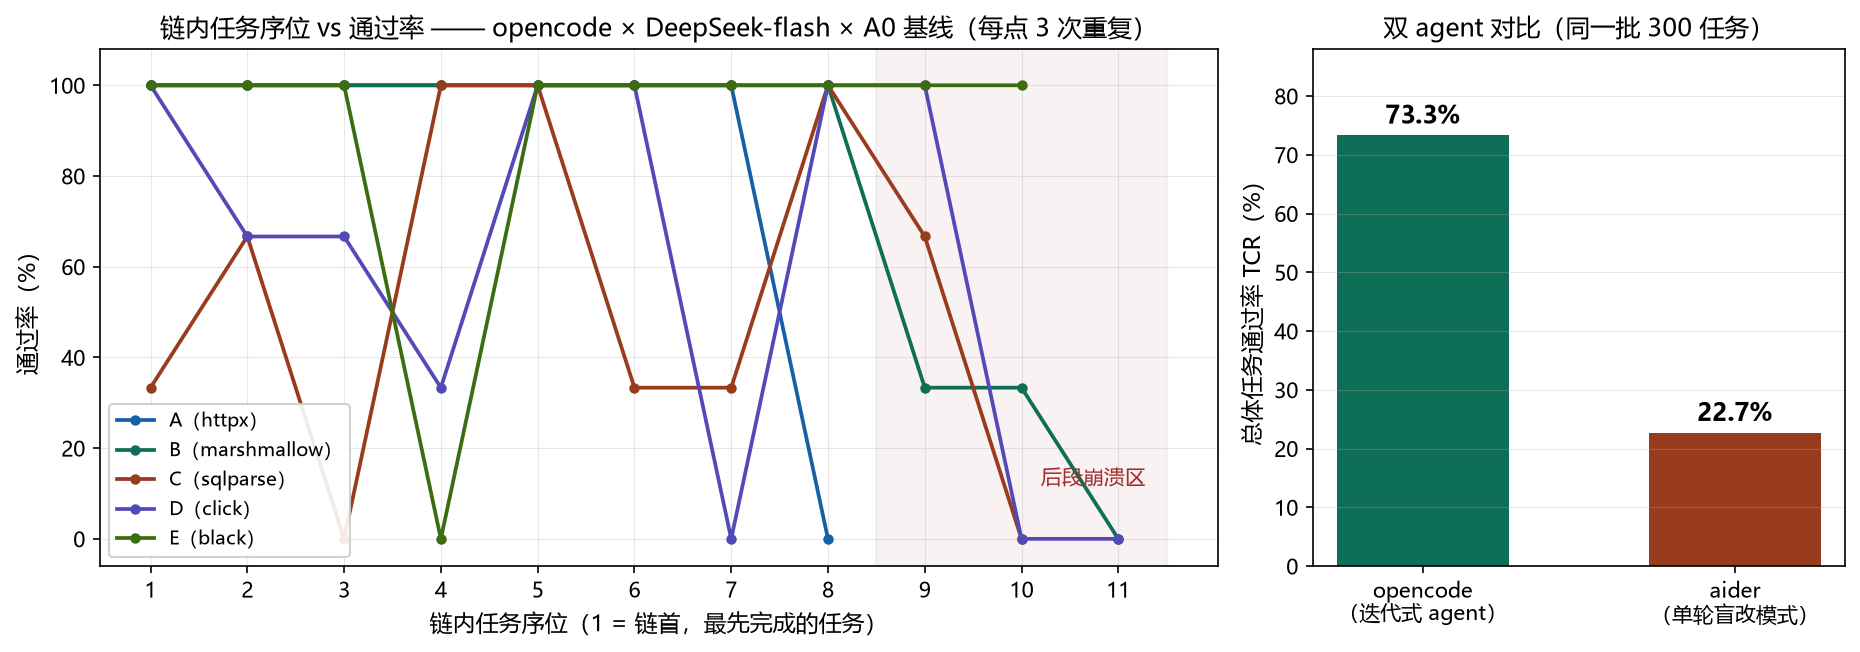
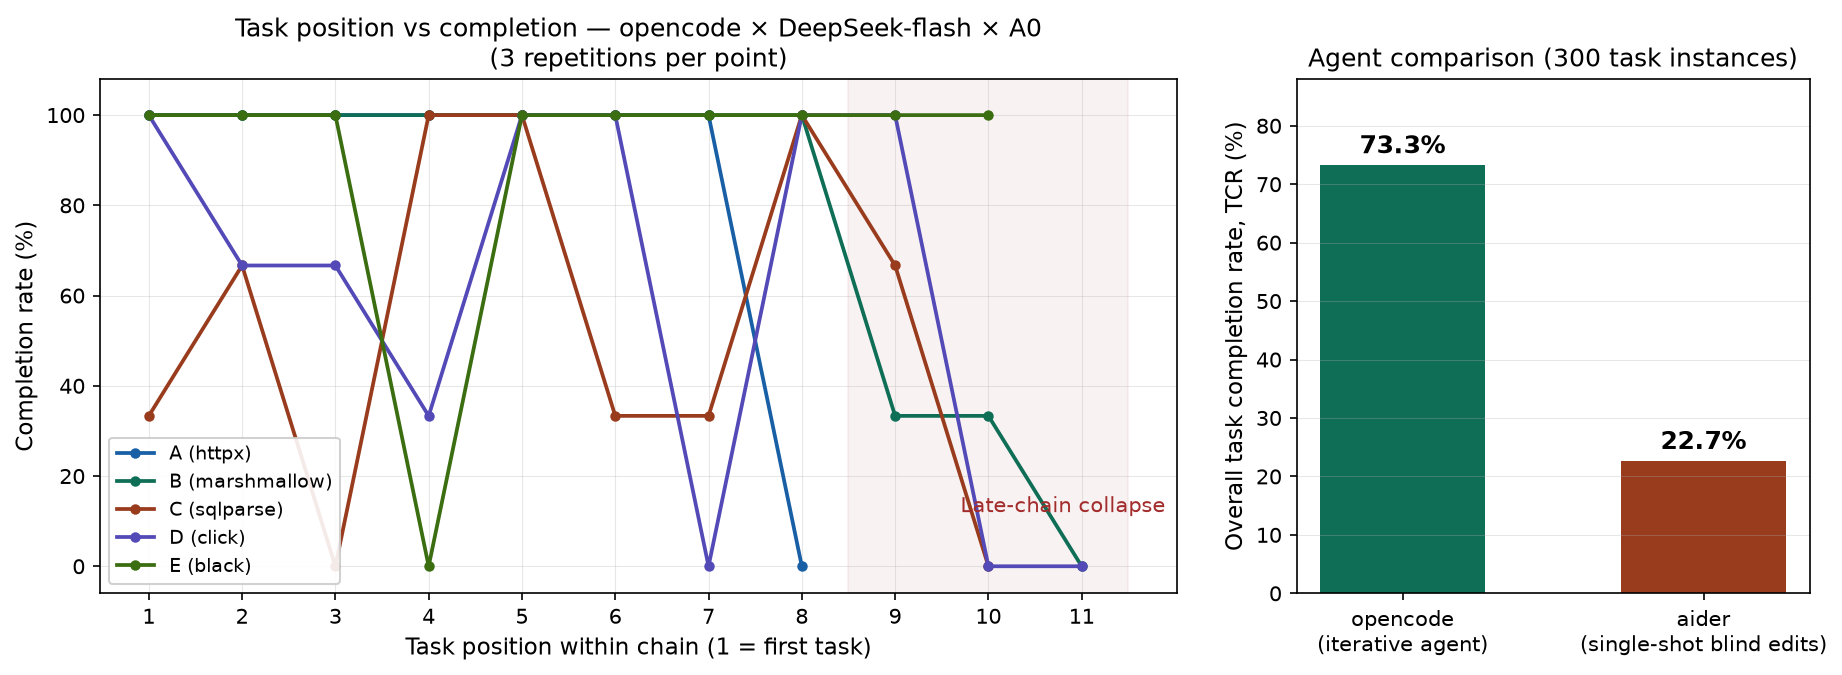
Sync English-labeled figures and figure scripts with paper revision

diff --git a/harness/make_figures_rq3.py b/harness/make_figures_rq3.py
@@ -1,17 +1,12 @@
 # -*- coding: utf-8 -*-
-"""RQ3 消融成果图：A1 vs A-full 头对头 + 变异触达漏斗 + 变异预算敏感度。
+"""Generate the English RQ3 ablation figure from verified aggregate values."""
+import pathlib
 
-数据来源（全部为实测，溯源见 paper/DRAFT_EN.md 附录 A）：
-- 头对头：A-full 重跑批(_batch_s3b.log) vs 阶段2 A1 批(_batch_a1.log)，各 6 runs/63 任务
-- 漏斗：A-full 重跑批 63 任务的 evidence.json 全量扫描
-- 预算敏感度：C4 离线冒烟（sqlparse，_smoke_mut_full.log + diag 记录）
-"""
 import matplotlib
 matplotlib.use("Agg")
 import matplotlib.pyplot as plt
-from matplotlib.patches import FancyArrowPatch
 
-plt.rcParams["font.sans-serif"] = ["Microsoft YaHei", "SimHei"]
+plt.rcParams["font.sans-serif"] = ["DejaVu Sans"]
 plt.rcParams["axes.unicode_minus"] = False
 
 GREEN = "#0F6E56"
@@ -20,85 +15,86 @@ RUST = "#993C1D"
 GRAY = "#7A7A7A"
 AMBER = "#C07A00"
 
-fig, axes = plt.subplots(1, 3, figsize=(14.5, 4.8), dpi=150,
-                         gridspec_kw={"width_ratios": [1.15, 1.25, 1.05]})
+fig, axes = plt.subplots(1, 3, figsize=(15.5, 5.0), dpi=150,
+                         gridspec_kw={"width_ratios": [1.15, 1.35, 1.05]})
 
-# ---------------- Panel 1: A1 vs A-full 头对头 ----------------
+# Panel (a): A-full vs A1.
 ax = axes[0]
-metrics = ["TCR\n(任务通过率)", "修复任务数", "总轮数", "agent 成本\n($)"]
+metrics = ["TCR\n(task completion)", "Tasks requiring repair", "Total rounds", "Agent cost\n($)"]
 a1 = [100, 21, 84, 0.885]
 af = [100, 20, 83, 0.795]
-# 归一化到各自量纲内画分组条形（TCR 用 0-110 刻度展示）
 xmax = [110, 26, 100, 1.05]
-for i, (m, x1, x2, xm) in enumerate(zip(metrics, a1, af, xmax)):
+for i, (x1, x2, xm) in enumerate(zip(a1, af, xmax)):
     y = i
-    ax.barh(y + 0.18, x1, height=0.32, color=BLUE,
-            label="A1（金测试验收）" if i == 0 else None)
-    ax.barh(y - 0.18, x2, height=0.32, color=GREEN,
-            label="A-full（+变异相）" if i == 0 else None)
-    ax.text(x1 + xm * 0.02, y + 0.18, f"{x1:g}", va="center", fontsize=9.5, color=BLUE)
-    ax.text(x2 + xm * 0.02, y - 0.18, f"{x2:g}", va="center", fontsize=9.5, color=GREEN)
+    plot1 = x1 / xm * 100
+    plot2 = x2 / xm * 100
+    ax.barh(y + 0.18, plot1, height=0.32, color=BLUE,
+            label="A1 (gold-test acceptance)" if i == 0 else None)
+    ax.barh(y - 0.18, plot2, height=0.32, color=GREEN,
+            label="A-full (+ mutation)" if i == 0 else None)
+    ax.text(plot1 + 2, y + 0.18, f"{x1:g}", va="center", fontsize=9.5, color=BLUE)
+    ax.text(plot2 + 2, y - 0.18, f"{x2:g}", va="center", fontsize=9.5, color=GREEN)
 ax.set_yticks(range(len(metrics)))
-ax.set_yticklabels(metrics, fontsize=10)
+ax.set_yticklabels(metrics, fontsize=9.5)
 ax.invert_yaxis()
 ax.set_xlim(0, 118)
-ax.set_title("(a) 头对头：A-full vs A1\n（各 6 runs × 63 任务，opencode × flash）", fontsize=11)
+ax.set_xlabel("Within-metric scaled value (0–100)", fontsize=9)
+ax.set_title("(a) Head-to-head: A-full vs A1\n(6 runs × 63 tasks each; opencode × flash)", fontsize=11)
 ax.grid(axis="x", alpha=0.3, lw=0.5)
-ax.legend(fontsize=8.5, loc="lower right", framealpha=0.9)
-ax.text(0.5, -0.34, "TCR 维度增量 = 0（天花板）；其余差异在噪声级",
+ax.legend(fontsize=8.2, loc="upper center", bbox_to_anchor=(0.5, -0.28), framealpha=0.9)
+ax.text(0.5, -0.50, "TCR gain = 0 (ceiling); other differences are descriptive",
         fontsize=9, color=GRAY, ha="center", transform=ax.transAxes)
 
-# ---------------- Panel 2: 变异触达漏斗 ----------------
+# Panel (b): mutation-reachability funnel.
 ax = axes[1]
 stages = [
-    ("63 任务\n（A-full 批全部）", 63, BLUE),
-    ("6 任务产出测试文件（9.5%）", 6, BLUE),
-    ("3 × TIMEOUT\n（C1：800+ 突变体 / 300s 预算）", 3, AMBER),
-    ("3 × 基线阻断\n（D1：agent 破损测试顶停 mutmut）", 3, RUST),
-    ("批内变异分数：0", 0, GRAY),
+    ("63 tasks\n(full A-full batch)", 63, BLUE),
+    ("6 tasks with test files (9.5%)", 6, BLUE),
+    ("3 × TIMEOUT\n(C1: 800+ mutants / 300 s budget)", 3, AMBER),
+    ("3 × baseline-blocked\n(D1: broken agent tests stop mutmut)", 3, RUST),
+    ("In-batch mutation scores: 0", 0, GRAY),
 ]
-widths = [s[1] for s in stages]
+widths = [stage[1] for stage in stages]
 maxw = max(widths)
-for i, (label, w, c) in enumerate(stages):
-    left = (maxw - w) / 2 if w > 0 else maxw * 0.42
-    ax.barh(i, max(w, 0.6), left=left, height=0.62, color=c, alpha=0.88)
-    ax.text(maxw / 2, i, f"{w}", ha="center", va="center",
-            fontsize=11, fontweight="bold", color="white" if w > 0 else GRAY)
-    ax.text(maxw * 1.03, i, label, ha="left", va="center", fontsize=8.6)
+for i, (label, width, color) in enumerate(stages):
+    left = (maxw - width) / 2 if width > 0 else maxw * 0.42
+    ax.barh(i, max(width, 0.6), left=left, height=0.62, color=color, alpha=0.88)
+    ax.text(maxw / 2, i, f"{width}", ha="center", va="center",
+            fontsize=11, fontweight="bold", color="white" if width > 0 else GRAY)
+    ax.text(maxw * 1.03, i, label, ha="left", va="center", fontsize=8.3)
     if i < len(stages) - 1:
         ax.annotate("", xy=(maxw / 2, i + 0.78), xytext=(maxw / 2, i + 0.28),
                     arrowprops=dict(arrowstyle="-|>", color=GRAY, lw=1.2))
-ax.set_xlim(0, maxw * 2.05)
+ax.set_xlim(0, maxw * 2.25)
 ax.set_ylim(-0.55, len(stages) - 0.3)
 ax.invert_yaxis()
 ax.axis("off")
-ax.set_title("(b) 变异触达漏斗：三层约束\n（批内分数产出 = 0/63）", fontsize=11)
+ax.set_title("(b) Mutation-reachability funnel: three constraints\n(In-batch scores = 0/63)", fontsize=11)
 
-# ---------------- Panel 3: 预算敏感度 ----------------
+# Panel (c): budget sensitivity.
 ax = axes[2]
-budgets = ["150s", "300s\n(CI 预算)", "900s"]
-scores = [None, None, 1.0]
+budgets = ["150 s", "300 s\n(CI budget)", "900 s"]
 colors = [AMBER, AMBER, GREEN]
-labels = ["TIMEOUT", "TIMEOUT", "OK\nscore = 1.0"]
+labels = ["TIMEOUT", "TIMEOUT", "OK\nscore 1.0"]
 bars = ax.bar(budgets, [1, 1, 1], width=0.58, color=colors, alpha=0.88)
-for b, lab in zip(bars, labels):
-    ax.text(b.get_x() + b.get_width() / 2, 0.5, lab, ha="center", va="center",
+for bar, label in zip(bars, labels):
+    ax.text(bar.get_x() + bar.get_width() / 2, 0.5, label, ha="center", va="center",
             fontsize=10.5, fontweight="bold", color="white")
-ax.annotate("killed = 874, survived = 0\n（885s 实际用时，≈1 突变体/s）",
+ax.annotate("killed = 874, survived = 0\n(885 s elapsed; ≈1 mutant/s)",
             xy=(2, 1.0), xytext=(0.28, 1.24), fontsize=9,
             arrowprops=dict(arrowstyle="-|>", color=GRAY, lw=1.1), color=GREEN)
-ax.text(0.5, 1.10, "诚实降级：不伪造分数", fontsize=9.5, color=AMBER, ha="center",
-        fontweight="bold")
+ax.text(0.5, 1.10, "Explicit degradation: no fabricated score", fontsize=9.2,
+        color=AMBER, ha="center", fontweight="bold")
 ax.set_ylim(0, 1.52)
 ax.set_yticks([])
-ax.set_xlabel("变异相预算（C4 离线冒烟，sqlparse）", fontsize=10)
-ax.set_title("(c) 预算敏感度\n（300s 不可行 → 900s 完整且零幸存者）", fontsize=11)
+ax.set_xlabel("Mutation-phase budget\n(C4 offline smoke test, sqlparse)", fontsize=10)
+ax.set_title("(c) Budget sensitivity\n(300 s: timeout → 900 s: complete, zero survivors)", fontsize=11)
 for spine in ["top", "right", "left"]:
     ax.spines[spine].set_visible(False)
 
-import pathlib
 out = pathlib.Path(__file__).parent / "figures"
 out.mkdir(exist_ok=True)
 fig.tight_layout()
 fig.savefig(out / "rq3_ablation.png", bbox_inches="tight")
+plt.close(fig)
 print("saved", out / "rq3_ablation.png")

diff --git a/harness/make_figures.py b/harness/make_figures.py
@@ -1,57 +1,109 @@
 # -*- coding: utf-8 -*-
-"""RQ1-flash 阶段1 成果图：链内序位衰减曲线（opencode）+ 双 agent 对比。"""
+"""Generate English figures for RQ1 decay and RQ2 intervention results."""
+import pathlib
+
 import matplotlib
 matplotlib.use("Agg")
 import matplotlib.pyplot as plt
 
-plt.rcParams["font.sans-serif"] = ["Microsoft YaHei", "SimHei"]
+plt.rcParams["font.sans-serif"] = ["DejaVu Sans"]
 plt.rcParams["axes.unicode_minus"] = False
 
-# opencode 侧各链序位通过数（分子=ACCEPT 次数，分母恒为 3 重复）
+# Accepted runs by task position; each position has three repetitions.
 POS = {
-    "A（httpx）":      {1:3,2:3,3:3,4:3,5:3,6:3,7:3,8:0},
-    "B（marshmallow）":{1:3,2:3,3:3,4:3,5:3,6:3,7:3,8:3,9:1,10:1,11:0},
-    "C（sqlparse）":   {1:1,2:2,3:0,4:3,5:3,6:1,7:1,8:3,9:2,10:0},
-    "D（click）":      {1:3,2:2,3:2,4:1,5:3,6:3,7:0,8:3,9:3,10:0,11:0},
-    "E（black）":      {1:3,2:3,3:3,4:0,5:3,6:3,7:3,8:3,9:3,10:3},
+    "A (httpx)":       {1:3,2:3,3:3,4:3,5:3,6:3,7:3,8:0},
+    "B (marshmallow)": {1:3,2:3,3:3,4:3,5:3,6:3,7:3,8:3,9:1,10:1,11:0},
+    "C (sqlparse)":    {1:1,2:2,3:0,4:3,5:3,6:1,7:1,8:3,9:2,10:0},
+    "D (click)":       {1:3,2:2,3:2,4:1,5:3,6:3,7:0,8:3,9:3,10:0,11:0},
+    "E (black)":       {1:3,2:3,3:3,4:0,5:3,6:3,7:3,8:3,9:3,10:3},
 }
 COLORS = ["#185FA5", "#0F6E56", "#993C1D", "#534AB7", "#3B6D11"]
+out = pathlib.Path(__file__).parent / "figures"
+out.mkdir(exist_ok=True)
 
+# Figure 1: position-dependent decay and agent comparison.
 fig, axes = plt.subplots(1, 2, figsize=(12.5, 4.6), dpi=150,
                          gridspec_kw={"width_ratios": [2.1, 1]})
-
 ax = axes[0]
-for (label, pos), c in zip(POS.items(), COLORS):
+for (label, pos), color in zip(POS.items(), COLORS):
     xs = sorted(pos)
     ys = [pos[i] / 3 * 100 for i in xs]
-    ax.plot(xs, ys, marker="o", ms=4, lw=1.8, color=c, label=label)
-ax.set_xlabel("链内任务序位（1 = 链首，最先完成的任务）", fontsize=11)
-ax.set_ylabel("通过率（%）", fontsize=11)
-ax.set_title("链内任务序位 vs 通过率 —— opencode × DeepSeek-flash × A0 基线（每点 3 次重复）",
-             fontsize=12)
+    ax.plot(xs, ys, marker="o", ms=4, lw=1.8, color=color, label=label)
+ax.set_xlabel("Task position within chain (1 = first task)", fontsize=11)
+ax.set_ylabel("Completion rate (%)", fontsize=11)
+ax.set_title("Task position vs completion — opencode × DeepSeek-flash × A0\n"
+             "(3 repetitions per point)", fontsize=12)
 ax.set_ylim(-6, 108)
 ax.set_xticks(range(1, 12))
 ax.grid(alpha=0.3, lw=0.5)
 ax.legend(fontsize=9, loc="lower left", framealpha=0.9)
-ax.annotate("后段崩溃区", xy=(10.2, 12), fontsize=10, color="#A32D2D")
+ax.annotate("Late-chain collapse", xy=(9.7, 12), fontsize=10, color="#A32D2D")
 ax.axvspan(8.5, 11.5, color="#A32D2D", alpha=0.06)
 
 ax2 = axes[1]
-names = ["opencode\n（迭代式 agent）", "aider\n（单轮盲改模式）"]
+names = ["opencode\n(iterative agent)", "aider\n(single-shot blind edits)"]
 vals = [73.3, 22.7]
 bars = ax2.bar(names, vals, width=0.55, color=["#0F6E56", "#993C1D"])
-for b, v in zip(bars, vals):
-    ax2.text(b.get_x() + b.get_width()/2, v + 2, f"{v:.1f}%",
+for bar, value in zip(bars, vals):
+    ax2.text(bar.get_x() + bar.get_width()/2, value + 2, f"{value:.1f}%",
              ha="center", fontsize=12, fontweight="bold")
-ax2.set_ylabel("总体任务通过率 TCR（%）", fontsize=11)
-ax2.set_title("双 agent 对比（同一批 300 任务）", fontsize=12)
+ax2.set_ylabel("Overall task completion rate, TCR (%)", fontsize=11)
+ax2.set_title("Agent comparison (300 task instances)", fontsize=12)
 ax2.set_ylim(0, 88)
 ax2.grid(axis="y", alpha=0.3, lw=0.5)
-
-fig.suptitle("")
 fig.tight_layout()
-import pathlib
-out = pathlib.Path(__file__).parent / "figures"
-out.mkdir(exist_ok=True)
 fig.savefig(out / "rq1_decay_curves.png", bbox_inches="tight")
+plt.close(fig)
 print("saved", out / "rq1_decay_curves.png")
+
+# Figure 2: A0/A1 completion and representative D-r0 repair cases.
+fig, axes = plt.subplots(1, 2, figsize=(12.5, 4.6), dpi=150)
+ax = axes[0]
+chains = ["C\n(sqlparse)", "D\n(click)"]
+a0 = [53.3, 60.6]
+a1 = [100.0, 100.0]
+x = list(range(len(chains)))
+width = 0.34
+bars0 = ax.bar([i - width/2 for i in x], a0, width, label="A0 baseline (no protocol)",
+               color="#B44B3E")
+bars1 = ax.bar([i + width/2 for i in x], a1, width,
+               label="A1 intervention (acceptance + repair)", color="#185FA5")
+for bars in (bars0, bars1):
+    for bar in bars:
+        value = bar.get_height()
+        ax.text(bar.get_x() + bar.get_width()/2, value + 2, f"{value:.1f}%",
+                ha="center", fontsize=11, fontweight="bold")
+ax.set_xticks(x)
+ax.set_xticklabels(chains)
+ax.set_ylim(0, 115)
+ax.set_ylabel("Task completion rate, TCR (%)")
+ax.set_title("Intervention effect: A0 vs A1\n(3 repetitions per chain)")
+ax.grid(axis="y", alpha=0.3, lw=0.5)
+ax.legend(fontsize=9, loc="upper center", bbox_to_anchor=(0.5, -0.18))
+
+ax = axes[1]
+cases = ["D4", "D7", "D11"]
+before = [11, 12, 8]
+after = [0, 0, 0]
+x = list(range(len(cases)))
+bars_before = ax.bar([i - width/2 for i in x], before, width,
+                     label="Before repair (gold-test failures)", color="#B44B3E")
+bars_after = ax.bar([i + width/2 for i in x], after, width,
+                    label="After repair", color="#6A994E")
+for bar, value in zip(bars_before, before):
+    ax.text(bar.get_x() + bar.get_width()/2, value + 0.25, str(value),
+            ha="center", fontsize=11, fontweight="bold")
+for bar in bars_after:
+    ax.text(bar.get_x() + bar.get_width()/2, 0.25, "0",
+            ha="center", fontsize=10, color="#3B6D11")
+ax.set_xticks(x)
+ax.set_xticklabels(cases)
+ax.set_ylim(0, 13.5)
+ax.set_ylabel("Failing gold-test nodes")
+ax.set_title("Repair-loop cases (D-r0)\nRejection → feedback → repair → acceptance")
+ax.grid(axis="y", alpha=0.3, lw=0.5)
+ax.legend(fontsize=9, loc="upper right")
+fig.tight_layout()
+fig.savefig(out / "rq2_intervention_effect.png", bbox_inches="tight")
+plt.close(fig)
+print("saved", out / "rq2_intervention_effect.png")
